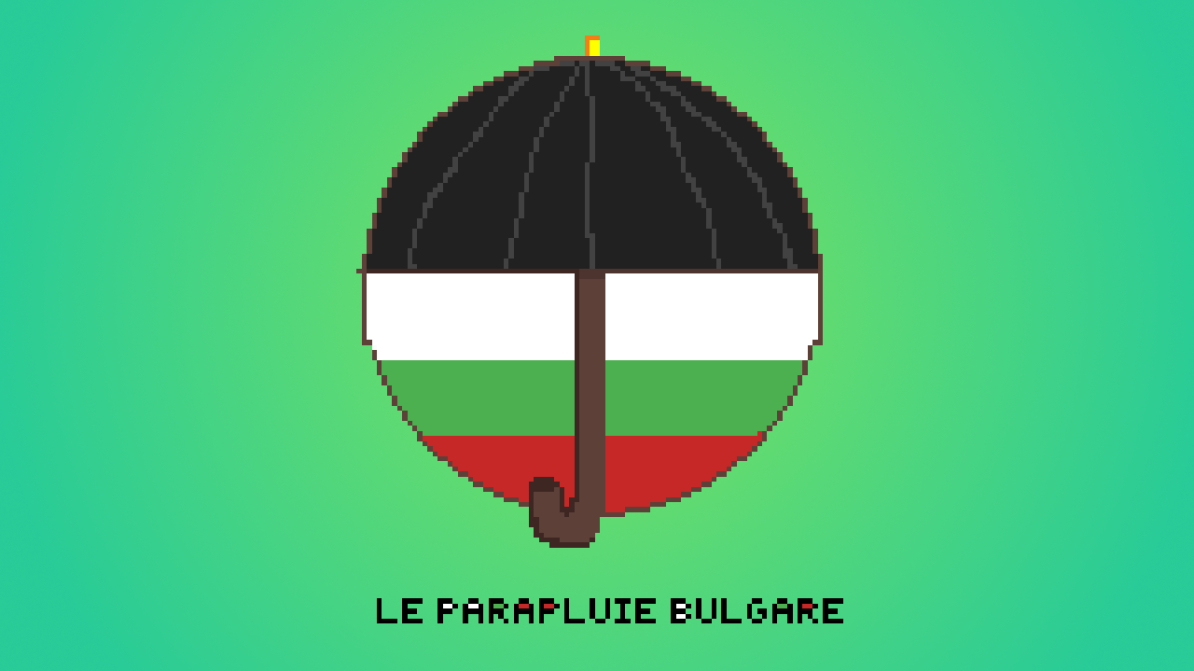
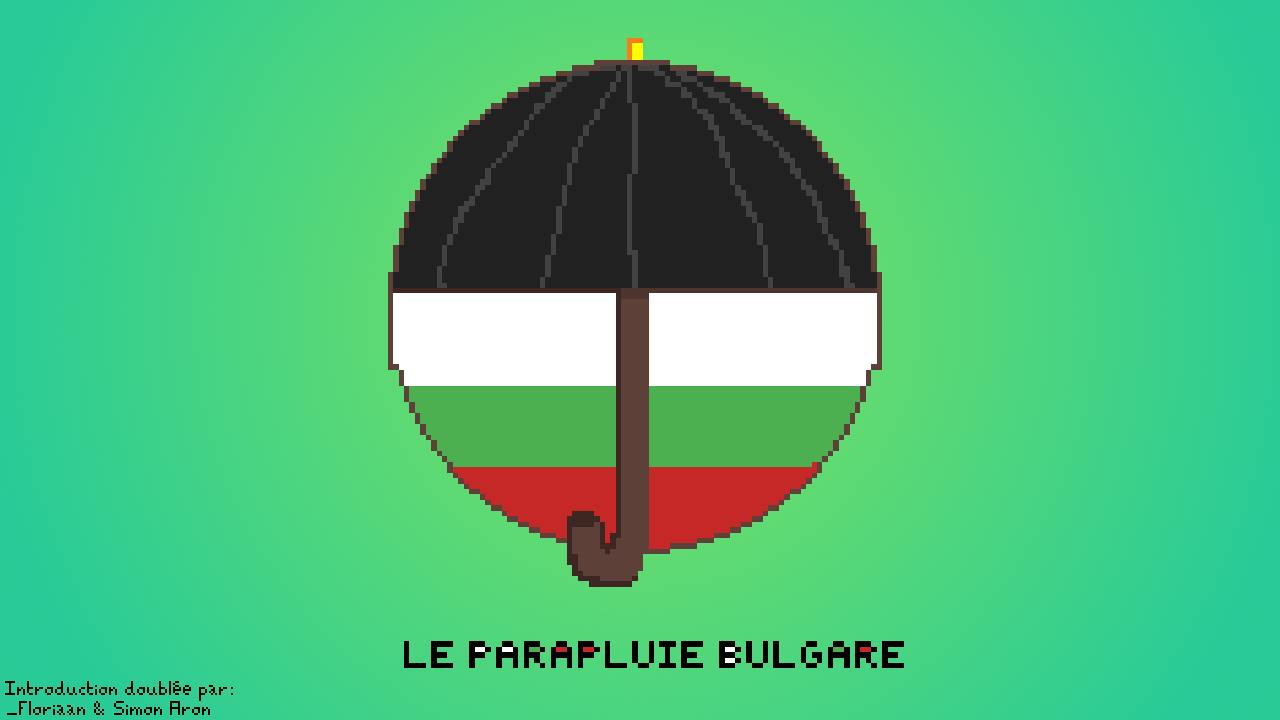
Ajout des crédits et d'un EndScreen + ajout d'éléments de déco dans le background

diff --git a/ParapluieBulgare/Game1.cs b/ParapluieBulgare/Game1.cs
@@ -33,6 +33,7 @@ namespace ParapluieBulgare
             "carnet",
             "transparent",
             "TitleScreen",
+            "EndScreen",
             "Viseur",
 
             "persos/Cadres/Cadre1",
@@ -78,7 +79,8 @@ namespace ParapluieBulgare
             "persos/Vigiles/VigileIdle",
             "persos/Vigiles/VigileWalk",
 
-            "Monitor"
+            "props/Monitor",
+            "props/Imprimante"
 
         };
         List<string> allSounds = new List<string>
@@ -161,6 +163,8 @@ namespace ParapluieBulgare
 
 
         public static int ThreatLevel = 0;
+        public static bool End = false;
+        public static double endTime = 0;
         public static bool Win = false;
         public static bool Lose = false;
 
@@ -450,7 +454,9 @@ namespace ParapluieBulgare
                     return new Animation(textureDict["persos/Vigiles/VigileWalk"], 32, 32, 8, 10);
 
                 case "moniteur":
-                    return new Animation(textureDict["Monitor"], 32, 32, 8, 10);
+                    return new Animation(textureDict["props/Monitor"], 32, 32, 8, 10);
+                case "imprimante":
+                    return new Animation(textureDict["props/Imprimante"], 32, 32, 6, 20);
 
                 default:
                     return null;
@@ -471,13 +477,35 @@ namespace ParapluieBulgare
                     };
 
                     npcs[0].Flip = true;
-
-                    DialogBox b1 = new DialogBox("Alors, Philippe, t'a gagne cette fois ?", npcs[0]);
-                    DialogBox b2 = new DialogBox("Nan, j'ai encore perdu, foutu canassons.., jamais le bon qui gagne !", npcs[1]);
-                    DialogBox b3 = new DialogBox("Et t'a perdu combien ce coup ci ?", npcs[0]);
-                    DialogBox b4 = new DialogBox("200 balles !", npcs[1]);
-                    DialogBox b5 = new DialogBox("Mais t'es con ou quoi Pillipe ? On gagne deja rien et tu claques tout au PMU, elle en pense quoi Marie ?", npcs[0]);
-                    DialogTree tree = new DialogTree(new List<DialogBox> { b1, b2, b3, b4, b5 });
+                    DialogBox b1 = new DialogBox("Alors  Philippe,  t'as  gagne  cette  fois  ?", npcs[1]);
+                    DialogBox b2 = new DialogBox("Nan,  j'ai  encore  perdu,  foutu  canassons,  jamais  le  bon  qui  gagne...", npcs[0]);
+                    DialogBox b3 = new DialogBox("(rire)  Et  combien  t'as  perdu  ce  coup  ci  ?", npcs[1]);
+                    DialogBox b4 = new DialogBox("200  balles  !", npcs[0]);
+                    DialogBox b5 = new DialogBox("Mais  t'es  con  ou  quoi  Philippe  ?  On  gagne  deja  rien  et  tu  claques  tout  au  PMU,  elle  en  pense quoi  Marie  ?", npcs[1]);
+                    DialogBox b6 = new DialogBox("Bah  j'lui  ai  rien  dit,  et  puis  tu  peux  te  la  ramener  Franck  on  a  le  meme  job  couillon  !", npcs[0]);
+                    DialogBox b7 = new DialogBox("Ouais  mais  moi  au  moins  j'suis  moins  con,  regarde  toi  tu  bosses  et  moi  je  fais  rien,  je  suis  donc  paye  a  te  regarder  faire.", npcs[1]);
+                    DialogBox b8 = new DialogBox("Ouais  bah  passe  moi  la  cle  de  12,  petit  con.", npcs[0]);
+                    DialogBox b9 = new DialogBox("Uniquement  si  on  prend  une  pause  apres.", npcs[1]);
+                    DialogBox b10 = new DialogBox("Pause  binouze  ?  Pause  clope  ?", npcs[0]);
+                    DialogBox b11 = new DialogBox("T'as  tout  compris  mon  cochon  !", npcs[1]);
+                    DialogBox b12 = new DialogBox("Salle  de  pause  ?  Et  si  on  croise  les  collegues  ?  ", npcs[0]);
+                    DialogBox b13 = new DialogBox("Que  dalle  je  partage  pas  ma  bibine,  elles  sont  dans  la  caisse  a  outil  j'ai  tout  prevu.", npcs[1]);
+                    DialogBox b14 = new DialogBox("T'es  vraiment  un  branleur  Franck,  mais  t'es  un  branleur  sympa.", npcs[0]);
+                    DialogBox b15 = new DialogBox("Et  toi  t'es  con  comme  tes  pieds,  arrete  de  faire  ta  gonzesse    et  viens  boire  un  coup.", npcs[1]);
+                    DialogBox b16 = new DialogBox("Euh,  Philippe  tu  le  connais  ce  mec  qui  nous  fixe  ?", npcs[1]);
+                    DialogBox b17 = new DialogBox("Nan,  tu  crois  qu'il  veut  piquer  la  mousseuse  ?", npcs[0]);
+                    DialogBox b18 = new DialogBox("Affirmatif  cher  collegue,  mais  personne  vole  la  binouze  au  Francky,  parole  de  bonhomme.", npcs[1]);
+                    DialogBox b19 = new DialogBox("Ah  au  fait,  tu  sais  que  Patrick  du  3eme,  la  le  con  qui  a  failli  nous  choper...", npcs[0]);
+                    DialogBox b20 = new DialogBox("Ouais  et  bah  quoi  ?", npcs[1]);
+                    DialogBox b21 = new DialogBox("Il  s'est  fait  gauler  en  train  de  se  palucher  sur  son  ordi  pro  !", npcs[0]);
+                    DialogBox b22 = new DialogBox("Roooh  naaaaaan  sans  deconner  !  Tous  des  hypocrites  ces  bureaucrates.  'Ah  gneuh  gneuh  gneuh  c'est  pas  bien  de  boire  sur  son  lieu  de  travail,  prochaine  fois  avertissement  aux  RH'.  ", npcs[1]);
+                    DialogBox b23 = new DialogBox("Il  a  pas  eu  b'soin  de  nous  pour  filer  droit  aux  RH  ce  con  !  HAHAHAHA", npcs[0]);
+                    DialogBox b24 = new DialogBox("HAHAHAHA", npcs[1]);
+                    DialogBox b25 = new DialogBox("...", npcs[0]);
+                    DialogBox b26 = new DialogBox("...", npcs[1]);
+                    DialogBox b27 = new DialogBox("Bordel,  mais  si  ca  se  trouve,  c'est  un  inspecteur  de  l'URSAFF  ce  type  ?", npcs[0]);
+                    DialogBox b28 = new DialogBox("Oh  merde  !  Fais  semblant  de  taffer  !  ", npcs[1]);
+                    DialogTree tree = new DialogTree(new List<DialogBox> { b1, b2, b3, b4, b5, b6, b7, b8, b9, b10, b11, b12, b13, b14, b15, b16, b17, b18, b19, b20, b21, b22, b23, b24, b25, b26, b27, b28 });
                     npcs[1].SetDialogTree(tree);
 
                     break;
@@ -501,7 +529,7 @@ namespace ParapluieBulgare
                     b3 = new DialogBox("Oui oui c'est ca, c'est ca. Partez ou je serai contraint d'appeler la police.", guards[0]);
                     b4 = new DialogBox("Ouais c'est ca allez-y, appelez les flics ! Histoire qu'ils decouvrent vos petites manigances. On sait ce que vous cachez sur vos serveurs !", npcs[1]);
                     b5 = new DialogBox("Bien sur, et moi je suis reptilien...", guards[0]);
-                    DialogBox b6 = new DialogBox("Moquez-vous !", npcs[1]);
+                    b6 = new DialogBox("Moquez-vous !", npcs[1]);
                     tree = new DialogTree(new List<DialogBox> { b1, b2, b3, b4, b5, b6 });
                     npcs[1].SetDialogTree(tree);
 
@@ -511,8 +539,8 @@ namespace ParapluieBulgare
                     b4 = new DialogBox("Serieux  ??  Je  ne  le  voyais  pas  aussi... 'connecte'.", npcs[3]);
                     b5 = new DialogBox("Ouais  enfin  mate  le  nom  du  chat  :  Berlioz...  C'est  pas  le  blaze  le  plus  tendance  non  plus...  ", npcs[4], false, HintsEnum.ChatBerlioz);
                     b6 = new DialogBox("Eh  !  Ca  reste  un  vieux  schnock  multimillionnaire  apres  tout...", npcs[3]);
-                    DialogBox b7 = new DialogBox("Chuuuuut  parle  moins  fort,  y  a  un  type  chelou  qui  nous  observe  !", npcs[4]);
-                    DialogBox b8 = new DialogBox("  ...", npcs[3]);
+                    b7 = new DialogBox("Chuuuuut  parle  moins  fort,  y  a  un  type  chelou  qui  nous  observe  !", npcs[4]);
+                    b8 = new DialogBox("  ...", npcs[3]);
                     tree = new DialogTree(new List<DialogBox> { b1, b2, b3, b4, b5, b6, b7, b8 });
                     npcs[4].SetDialogTree(tree);
 
@@ -598,12 +626,12 @@ namespace ParapluieBulgare
                     b6 = new DialogBox("Tu  n'as  toujours  pas  teste  les  nouvelles  activites  proposees  par  le  CE  pour  'avoir  le  smile'  ?", npcs[2]);
                     b7 = new DialogBox("Nan  j'ai  pas  vraiment  regarde.", npcs[1]);
                     b8 = new DialogBox("Ca  devrait  t'interesser  pourtant,  c'est  Alicia  qui  s'en  charge.", npcs[2]);
-                    DialogBox b9 = new DialogBox("A...  Arrete  !  Tu  sais  tres  bien  que  je  suis  trop  genee  quand  elle  est  la...", npcs[1]);
-                    DialogBox b10 = new DialogBox("Fais  gaffe,  tu  vas  te  faire  devancer  par  Camille  hahaha", npcs[2]);
-                    DialogBox b11 = new DialogBox("Par...  Camille,  celle  dont  tout  le  monde  parle  !?", npcs[1]);
-                    DialogBox b12 = new DialogBox("Oui,  qui  travaille  sur  le  projet  de  super-vaccin,  celle-la  meme.", npcs[2]);
-                    DialogBox b13 = new DialogBox("Eh  qu'est-ce  qui  te  fait  croire  qu'elle  est  aussi...  ", npcs[1]);
-                    DialogBox b14 = new DialogBox("J'ai  mes  sources  eheheh.  Et  puis,  elle  reserve  toujours  les  creneaux  entiers  ou  Alicia  participe  egalement...  C'est  tellement  crame  !  Encore  aujourd'hui,  elle  a  bloque  sa  journee  pour  faire  l'atelier  cuisine  !", npcs[2], false, HintsEnum.AtelierCuisine);
+                    b9 = new DialogBox("A...  Arrete  !  Tu  sais  tres  bien  que  je  suis  trop  genee  quand  elle  est  la...", npcs[1]);
+                    b10 = new DialogBox("Fais  gaffe,  tu  vas  te  faire  devancer  par  Sophie  hahaha", npcs[2]);
+                    b11 = new DialogBox("Par...  Sophie,  celle  dont  tout  le  monde  parle  !?", npcs[1]);
+                    b12 = new DialogBox("Oui,  qui  travaille  sur  le  projet  de  super-vaccin,  celle-la  meme.", npcs[2]);
+                    b13 = new DialogBox("Eh  qu'est-ce  qui  te  fait  croire  qu'elle  est  aussi...  ", npcs[1]);
+                    b14 = new DialogBox("J'ai  mes  sources  eheheh.  Et  puis,  elle  reserve  toujours  les  creneaux  entiers  ou  Alicia  participe  egalement...  C'est  tellement  crame  !  Encore  aujourd'hui,  elle  a  bloque  sa  journee  pour  faire  l'atelier  cuisine  !", npcs[2], false, HintsEnum.AtelierCuisine);
 
                     tree = new DialogTree(new List<DialogBox> { b1, b2, b3, b4, b5 }, new List<HintsEnum> { HintsEnum.HappinessManager }, new List<DialogBox> { b6, b7, b8, b8, b9, b10, b11, b12, b13, b14 });
                     npcs[2].SetDialogTree(tree);
@@ -706,8 +734,10 @@ namespace ParapluieBulgare
                 case 4:
                     furnitures = new List<Furniture>
                     {
-                        new Furniture(GetAnimation("transparent"), GetTronche("PC_Boss"), 3350)
+                        new Furniture(GetAnimation("transparent"), GetTronche("PC_Boss"), 3350),
+                        //new Furniture(GetAnimation("imprimante"),null,900),
                     };
+                    //furnitures[1].SetDialogTree(null);
 
                     b18 = new DialogBox("Mot de passe ?", furnitures[0]);
                     b19 = new DialogBox("Berlioz", player);
@@ -876,6 +906,9 @@ namespace ParapluieBulgare
 
                 prevKeyState = state;
             }
+            else { 
+                
+            }
             base.Update(gameTime);
         }
 
@@ -919,8 +952,30 @@ namespace ParapluieBulgare
             spriteBatch.Draw(white, new Rectangle((WIDTH - len) / 2 - 20, 0, len + 40, h + 20), Color.Black);
             spriteBatch.DrawString(font, time, new Vector2((WIDTH - len) / 2, 10), Color.Red);
 
-            if (Win) spriteBatch.DrawString(font, "YOU WIN", new Vector2(300, 150), Color.Red);
-            if (Lose) spriteBatch.DrawString(font, "YOU LOSE", new Vector2(300, 150), Color.Red);
+            
+            if (Win)
+            {
+                spriteBatch.DrawString(font, "YOU WIN", new Vector2(300, 150), Color.Red);
+                if (!End)
+                {
+                    endTime = gameTime.TotalGameTime.TotalSeconds;
+                    End = true;
+                }
+            }
+            if (Lose)
+            {
+                spriteBatch.DrawString(font, "YOU LOSE", new Vector2(300, 150), Color.Red);
+                if (!End)
+                {
+                    endTime = gameTime.TotalGameTime.TotalSeconds;
+                    End = true;
+                }
+            }
+            if(End && gameTime.TotalGameTime.TotalSeconds - endTime >= 4)
+            {
+                spriteBatch.Draw(textureDict["EndScreen"], new Rectangle(0, 0, WIDTH, HEIGHT), Color.White);
+            }
+            
 
             if (isPlayingIntro)
             {

diff --git a/ParapluieBulgare/Code/Furniture.cs b/ParapluieBulgare/Code/Furniture.cs
@@ -17,7 +17,7 @@ namespace ParapluieBulgare.Code
         public Furniture(Animation idle, Texture2D face, int x = 500) : base(idle, null, face)
         {
             this.x = x;
-            y = 2 * Game1.HEIGHT / 3 - width - 20;
+            this.y = 2 * Game1.HEIGHT / 3 - width - 20;
         }
 
         public override void Update(KeyboardState keyState, KeyboardState prevKeyState)
